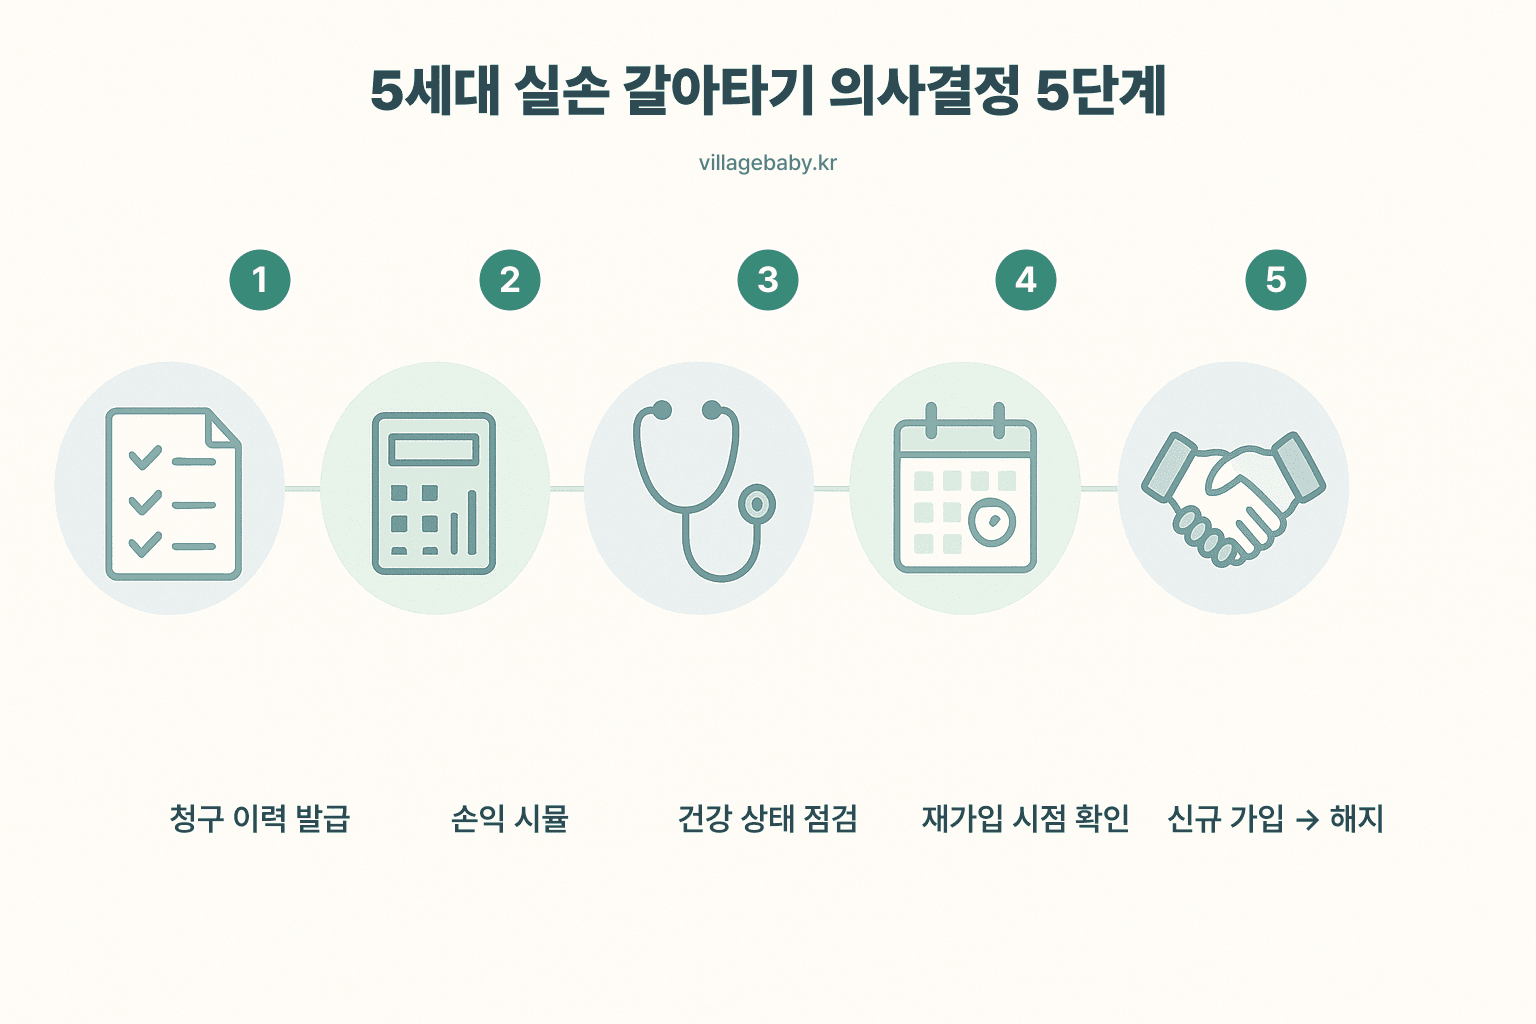
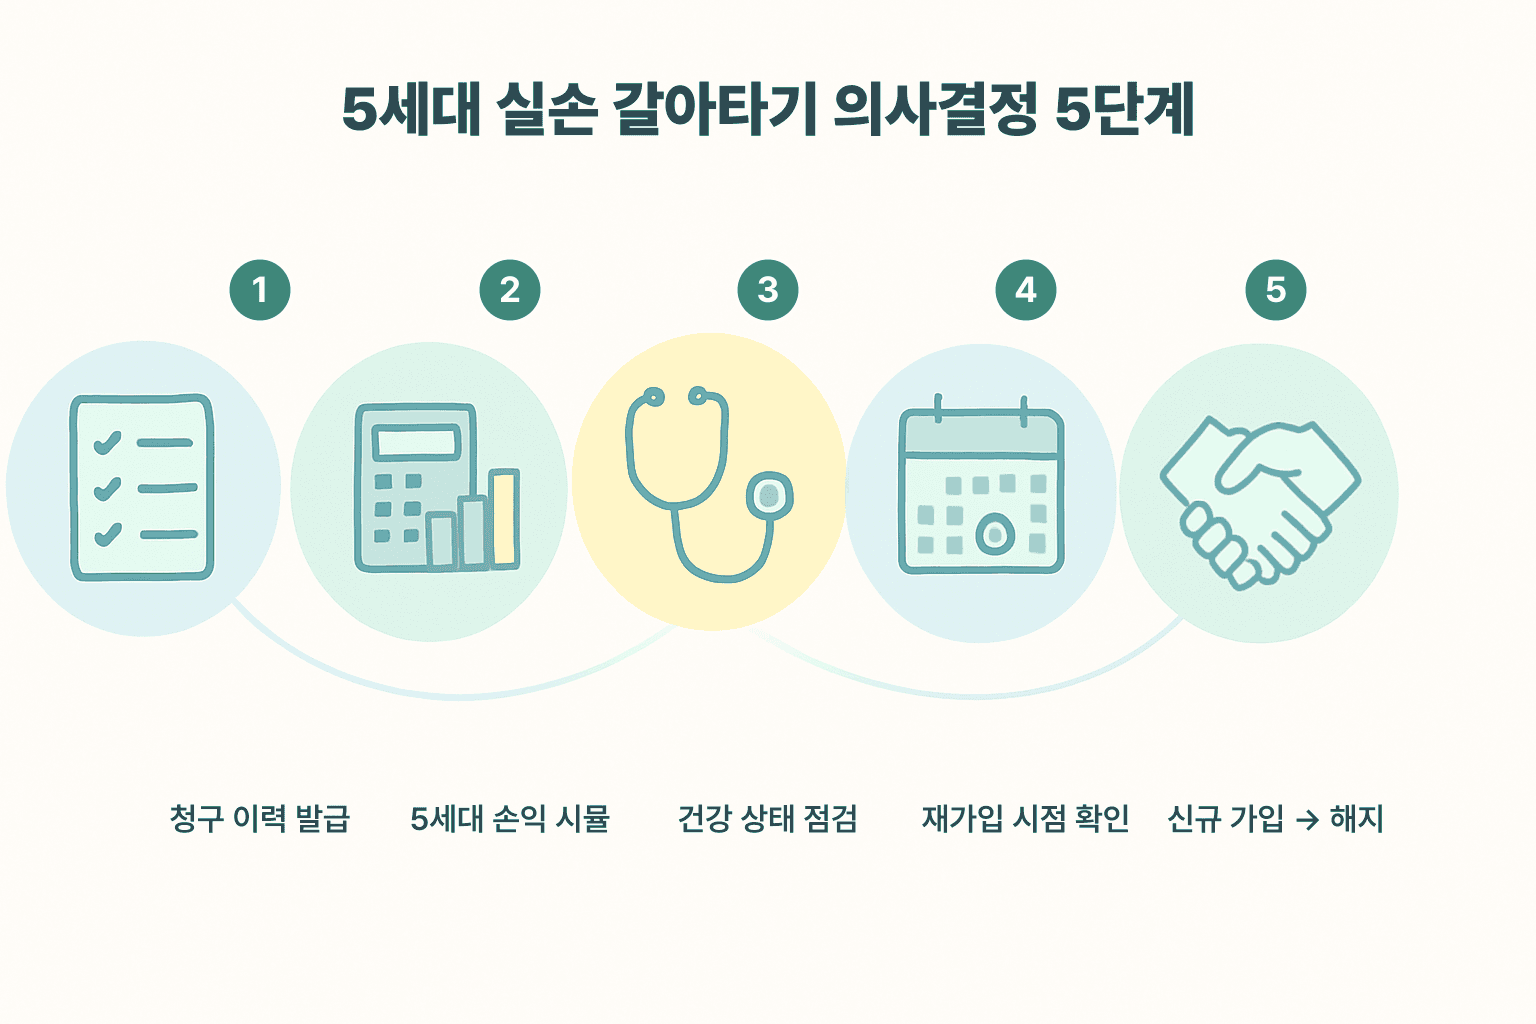
feat(guide/5세대 갈아타기): 다이어그램 v1 채택 — 라벨 정합·서브타이틀 제거·max-width 560px·JSON-LD ImageObject 보강 + 프리뷰 11개 정리

diff --git a/guide/5세대-실손-갈아타기-가이드/index.html b/guide/5세대-실손-갈아타기-가이드/index.html
@@ -23,9 +23,9 @@
   {
     "@context":"https://schema.org",
     "@graph":[
-      {"@type":"Article","@id":"https://villagebaby.kr/guide/5세대-실손-갈아타기-가이드/#article","headline":"5세대 실손 갈아타기 가이드 2026 — 4세대 가입자 필독 5단계","datePublished":"2026-05-06","dateModified":"2026-05-14T00:00:00+09:00","author":{"@type":"Person","image":"https://villagebaby.kr/assets/img/billy-author-256.png","name":"베이비빌리 보험 전문팀","jobTitle":"부모·가족 보험 컨설턴트","worksFor":{"@type":"Organization","name":"베이비빌리","url":"https://babybilly.co"},"description":"태아·어린이·실손보험 등 부모를 위한 모든 보험을 10년 이상 전문 상담한 팀. 손해보험 6개사·생명보험 5개사 통합 비교 컨설팅을 제공합니다.","knowsAbout":["태아보험","어린이보험","실손보험","5세대 실손","보험 비교","보험 청구"]},"reviewedBy":{"@type":"Person","name":"베이비빌리 보험 전문 감수단","description":"10년 이상 태아·어린이보험 분야에 종사한 전문가들이 감수한 콘텐츠입니다."},"publisher":{"@type":"Organization","name":"베이비빌리","url":"https://villagebaby.kr/","logo":{"@type":"ImageObject","url":"https://villagebaby.kr/logo.png"},"sameAs":["https://pf.kakao.com/_bxjJfn","https://villagebaby.kr/"],"contactPoint":{"@type":"ContactPoint","contactType":"customer service","areaServed":"KR","availableLanguage":"ko"}},"image":{"@type":"ImageObject","url":"https://villagebaby.kr/heroimage.jpg","width":727,"height":320},"mainEntityOfPage":{"@type":"WebPage","@id":"https://villagebaby.kr/guide/5세대-실손-갈아타기-가이드/"},"speakable":{"@type":"SpeakableSpecification","cssSelector":[".answer .text",".answer .lead",".hero h1",".hero .lead",".sec-head h2"]}},
+      {"@type":"Article","@id":"https://villagebaby.kr/guide/5세대-실손-갈아타기-가이드/#article","headline":"5세대 실손 갈아타기 가이드 2026 — 4세대 가입자 필독 5단계","datePublished":"2026-05-06","dateModified":"2026-05-14T00:00:00+09:00","author":{"@type":"Person","image":"https://villagebaby.kr/assets/img/billy-author-256.png","name":"베이비빌리 보험 전문팀","jobTitle":"부모·가족 보험 컨설턴트","worksFor":{"@type":"Organization","name":"베이비빌리","url":"https://babybilly.co"},"description":"태아·어린이·실손보험 등 부모를 위한 모든 보험을 10년 이상 전문 상담한 팀. 손해보험 6개사·생명보험 5개사 통합 비교 컨설팅을 제공합니다.","knowsAbout":["태아보험","어린이보험","실손보험","5세대 실손","보험 비교","보험 청구"]},"reviewedBy":{"@type":"Person","name":"베이비빌리 보험 전문 감수단","description":"10년 이상 태아·어린이보험 분야에 종사한 전문가들이 감수한 콘텐츠입니다."},"publisher":{"@type":"Organization","name":"베이비빌리","url":"https://villagebaby.kr/","logo":{"@type":"ImageObject","url":"https://villagebaby.kr/logo.png"},"sameAs":["https://pf.kakao.com/_bxjJfn","https://villagebaby.kr/"],"contactPoint":{"@type":"ContactPoint","contactType":"customer service","areaServed":"KR","availableLanguage":"ko"}},"image":[{"@type":"ImageObject","url":"https://villagebaby.kr/heroimage.jpg","width":727,"height":320},{"@type":"ImageObject","url":"https://villagebaby.kr/guide/5%EC%84%B8%EB%8C%80-%EC%8B%A4%EC%86%90-%EA%B0%88%EC%95%84%ED%83%80%EA%B8%B0-%EA%B0%80%EC%9D%B4%EB%93%9C/img-decision-flow.png","width":1536,"height":1024,"caption":"5세대 실손 갈아타기 의사결정 5단계 다이어그램","representativeOfPage":true}],"mainEntityOfPage":{"@type":"WebPage","@id":"https://villagebaby.kr/guide/5세대-실손-갈아타기-가이드/"},"speakable":{"@type":"SpeakableSpecification","cssSelector":[".answer .text",".answer .lead",".hero h1",".hero .lead",".sec-head h2"]}},
       {"@type":"BreadcrumbList","itemListElement":[{"@type":"ListItem","position":1,"name":"홈","item":"https://villagebaby.kr/"},{"@type":"ListItem","position":2,"name":"가이드","item":"https://villagebaby.kr/guide/"},{"@type":"ListItem","position":3,"name":"5세대 갈아타기 가이드","item":"https://villagebaby.kr/guide/5세대-실손-갈아타기-가이드/"}]},
-      {"@type":"HowTo","name":"4세대 실손 가입자 5세대 갈아타기","step":[
+      {"@type":"HowTo","name":"4세대 실손 가입자 5세대 갈아타기","image":"https://villagebaby.kr/guide/5%EC%84%B8%EB%8C%80-%EC%8B%A4%EC%86%90-%EA%B0%88%EC%95%84%ED%83%80%EA%B8%B0-%EA%B0%80%EC%9D%B4%EB%93%9C/img-decision-flow.png","description":"4세대 실손 가입자가 5세대로 갈아탈지 결정하기 위한 5단계 점검 절차","step":[
         {"@type":"HowToStep","position":1,"name":"청구 이력 점검","text":"지난 1~2년 비급여 청구 내역을 보험사에서 발급받아 확인합니다."},
         {"@type":"HowToStep","position":2,"name":"손익 계산","text":"5세대 보험료 절감액과 비중증 자부담 증가액을 비교 시뮬합니다."},
         {"@type":"HowToStep","position":3,"name":"건강 상태 점검","text":"최근 5년 진료 이력·수술·진단을 확인하고 인수 거절·할증 가능성을 평가합니다."},
@@ -266,7 +266,7 @@
 
     <section class="sec" id="5steps">
       <h2 class="h2">의사결정 5단계</h2>
-      <figure style="margin:24px auto 8px;text-align:center">
+      <figure style="max-width:560px;margin:24px auto 8px;text-align:center">
         <picture>
           <source type="image/webp" srcset="/guide/5%EC%84%B8%EB%8C%80-%EC%8B%A4%EC%86%90-%EA%B0%88%EC%95%84%ED%83%80%EA%B8%B0-%EA%B0%80%EC%9D%B4%EB%93%9C/img-decision-flow.webp">
           <img src="/guide/5%EC%84%B8%EB%8C%80-%EC%8B%A4%EC%86%90-%EA%B0%88%EC%95%84%ED%83%80%EA%B8%B0-%EA%B0%80%EC%9D%B4%EB%93%9C/img-decision-flow.png"
@@ -275,7 +275,7 @@
                loading="lazy" decoding="async"
                style="max-width:100%;height:auto;border-radius:12px">
         </picture>
-        <figcaption style="font-size:13.5px;color:var(--gray-700);margin-top:10px;line-height:1.6">4세대 실손 가입자가 5세대로 갈아탈지 점검할 의사결정 5단계 — 청구 이력 발급, 손익 시뮬레이션, 건강 상태 점검, 재가입 시점 확인, 신규 가입 후 4세대 해지 순서</figcaption>
+        <figcaption style="font-size:13.5px;color:var(--gray-700);margin-top:10px;line-height:1.6">4세대 실손 가입자가 5세대로 갈아탈지 점검할 의사결정 5단계 — 청구 이력 발급, 5세대 손익 시뮬, 건강 상태 점검, 재가입 시점 확인, 신규 가입 후 4세대 해지 순서</figcaption>
       </figure>
 
 
